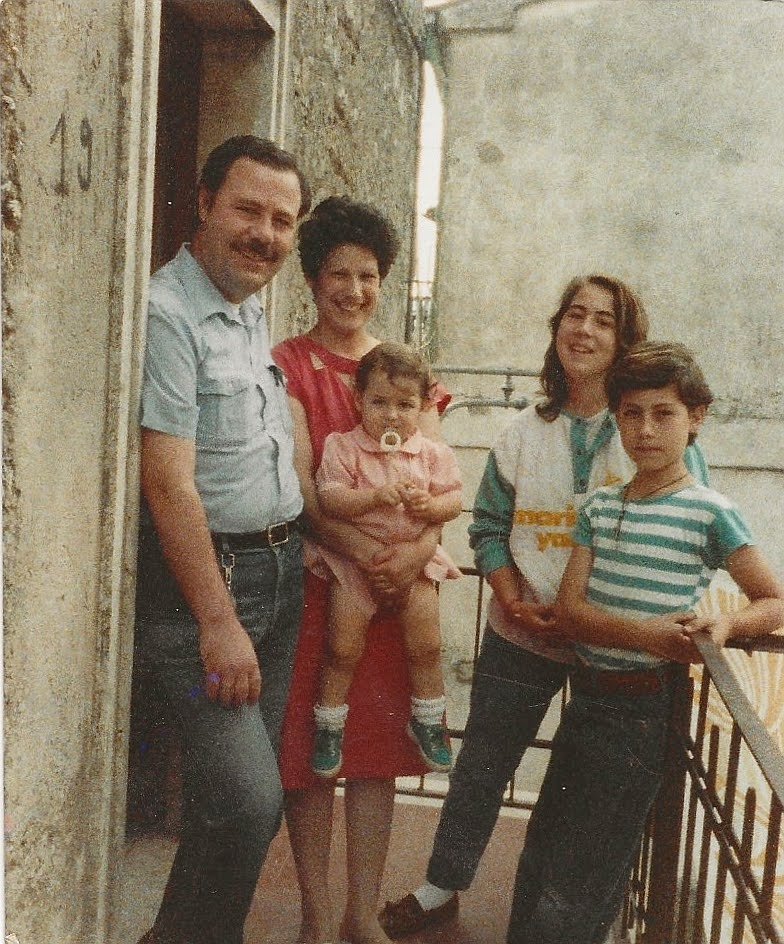
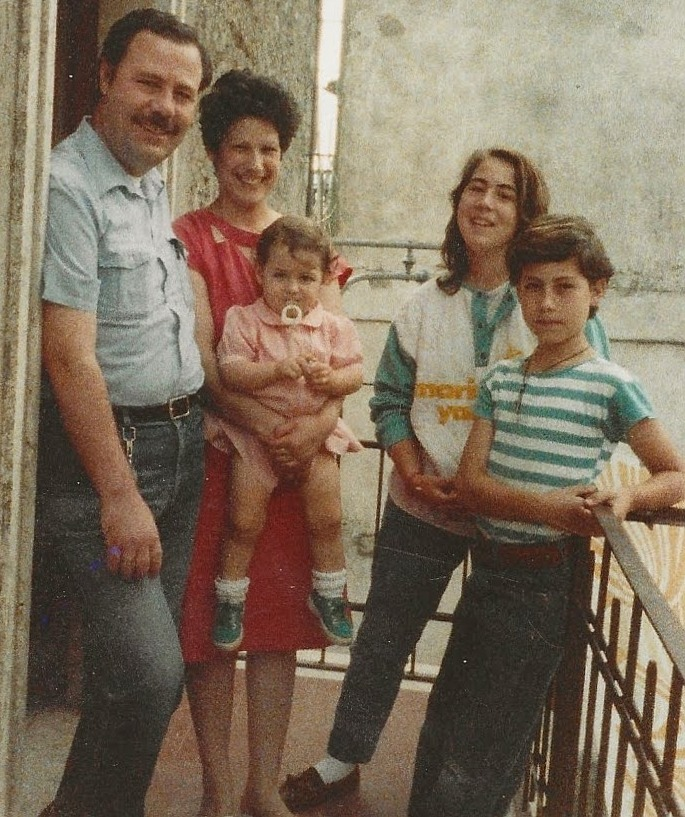
Filling our story

diff --git a/src/app/pages/our-story/our-story.component.scss b/src/app/pages/our-story/our-story.component.scss
@@ -11,6 +11,7 @@
   overflow: hidden;
   outline: none;
   touch-action: pan-y pinch-zoom;
+  padding-top: 60px; // Add top padding to avoid header
 
   &:focus {
     outline: none;
@@ -85,7 +86,7 @@
   width: 100%;
   height: 100%;
   display: grid;
-  grid-template-columns: 1fr 3fr 1fr; // Text | Image | Comics
+  grid-template-columns: 1fr 2fr 1fr; // Reduced image column from 3fr to 2fr
   gap: 1rem;
   align-items: center;
   // padding: 2rem;
@@ -286,6 +287,10 @@
 
 // Mobile responsive styles
 @media screen and (max-width: 768px) {
+  .story-gallery {
+    padding-top: 60px; // Less padding for mobile
+  }
+
   .card-wrapper {
     max-width: 100%;
     padding: 1rem;
@@ -324,6 +329,11 @@
   .image-column {
     order: 2;
     padding: 0.5rem;
+
+    .image-container {
+      width: 100%; // Full width on mobile
+      height: 100%;
+    }
   }
 
   .comic-column {
